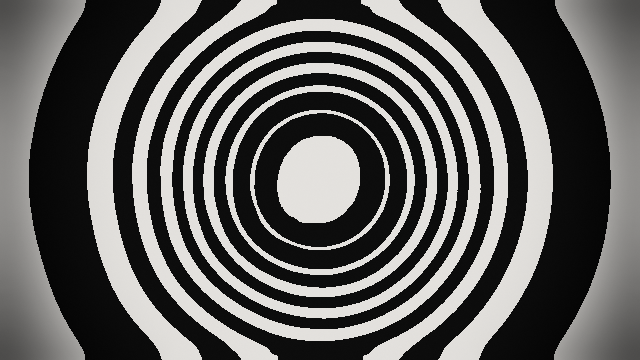
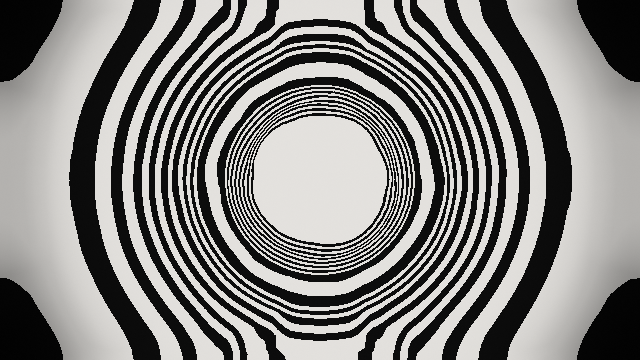
docs(images): the warp cards are re-rendered at the family's hop
Seven cards, hop 300 to hop 2754, and this is the family the entry was raised
on. warp_tracery's card showed the contours closed around each of seven separate
lobes; at 29.4 s they have merged into the rosette the preset is named for.
warp_ladder's own header records the same thing as a number - coverage 0.408 at
its 30 s row against 0.619 at 300 s.

Rendered as one set in one run, on the Windows development box (Windows 10,
Ryzen + RTX 3080 laptop, release build), through shot's unpinned headless
renderer - AdapterChoice::Default, the power-saving pick on this hybrid box,
whose roster reads [0] AMD Radeon(TM) Graphics (Dx12, IntegratedGpu) driver
30.0.13002.1001, [1] NVIDIA GeForce RTX 3080 Laptop GPU driver 32.0.15.8142.
A render is not byte-reproducible across machines (ADR-0100), so the set is
judged as pictures and not as a diff.

Carries Phase 3's implementation-log row, which the five earlier family commits
could not: the row names them.

Plan 0210 Phase 3.

diff --git a/docs/plans/0210-the-gallery-card-shows-the-world-it-names.md b/docs/plans/0210-the-gallery-card-shows-the-world-it-names.md
@@ -226,8 +226,8 @@ flowchart TB
 | phase | owner | state | commit |
 |---|---|---|---|
 | 1 — the renderer takes a name | dev | done | `655fa6a3` |
-| 2 — the accumulating set is named, and the hop follows the family | dev | done | committed with this row |
-| 3 — the affected cards are re-rendered as sets | dev | not started | |
+| 2 — the accumulating set is named, and the hop follows the family | dev | done | `36e254ef` |
+| 3 — the affected cards are re-rendered as sets | dev | done | `13838683` `4ae649b2` `9e47296f` `4d4365d6` `2102267c`, and the warp set committed with this row |
 | 4 — a person says whether the cards are now the look | human | not started | |
 
 ### Notes
@@ -260,7 +260,29 @@ the Windows development box, hardware adapter, release build (ADR-0071).
 `node scripts/docs-shots.mjs analytic_echoplate` re-rendered a non-accumulating card with no
 `--signal-secs` on the command line and left `git status` carrying no image change.
 
-**An observation for Phase 3**, from the bounded bare run used to check Phase 1:
+**Phase 3 re-rendered 45 cards in six runs, and every changed file was a card whose hop moved.**
+20 attractor, 5 cellular, 5 emitter, 7 reaction, 1 swarm, 7 warp; `git status` was read after each
+family's run and carried that family's cards and nothing else. **The instability the Phase 1 note
+below records did not appear** — but that is not evidence against it: nothing rendered here was
+expected to come back byte-identical, so a card that drifted and a card that moved for its hop are
+indistinguishable in this set.
+
+**Seven cards were named to the runner by their full `out` path rather than by preset stem**, and
+that is not cosmetic. `attractor_leviathan`, `cellular_ember_life`, `cellular_spiral_bloom`,
+`cellular_tide_bugs`, `emitter_perseids`, `reaction_verdigris` and `warp_wellhead` are each also the
+preset behind a one-per-system or teaching image, whose hop did **not** move; Phase 1's matcher
+reads `presetFile` as an alias, so the bare stem would have re-rendered those too.
+
+**Attractor's twenty cards exceeded the ten-minute ceiling this session can hold a foreground
+command for**, and the harness moved the run to the background rather than the run being split. It
+completed, exit 0, all twenty written in the one run the phase asks for.
+
+**Measured per card at hop 2754, 640x360, Rich, on the box named in each commit body** (ADR-0071):
+`warp_tracery` 5.1 s, `attractor_walkknot` 11.1 s, `reaction_verdigris` 11.8 s,
+`attractor_valentine` 20.4 s. The phase's stop condition is a card costing more than a minute; the
+slowest measured is a third of that, so it was not reached.
+
+**An observation from Phase 1**, from the bounded bare run used to check it:
 of the first 33 manifest entries re-rendered on this machine, **12 came back with bytes different
 from the committed PNG** (`hero`, `walkthrough/step-5`, and ten of the one-per-system gallery
 images) while the other 21, `warp_tracery`'s card among them, were byte-identical. All were restored
